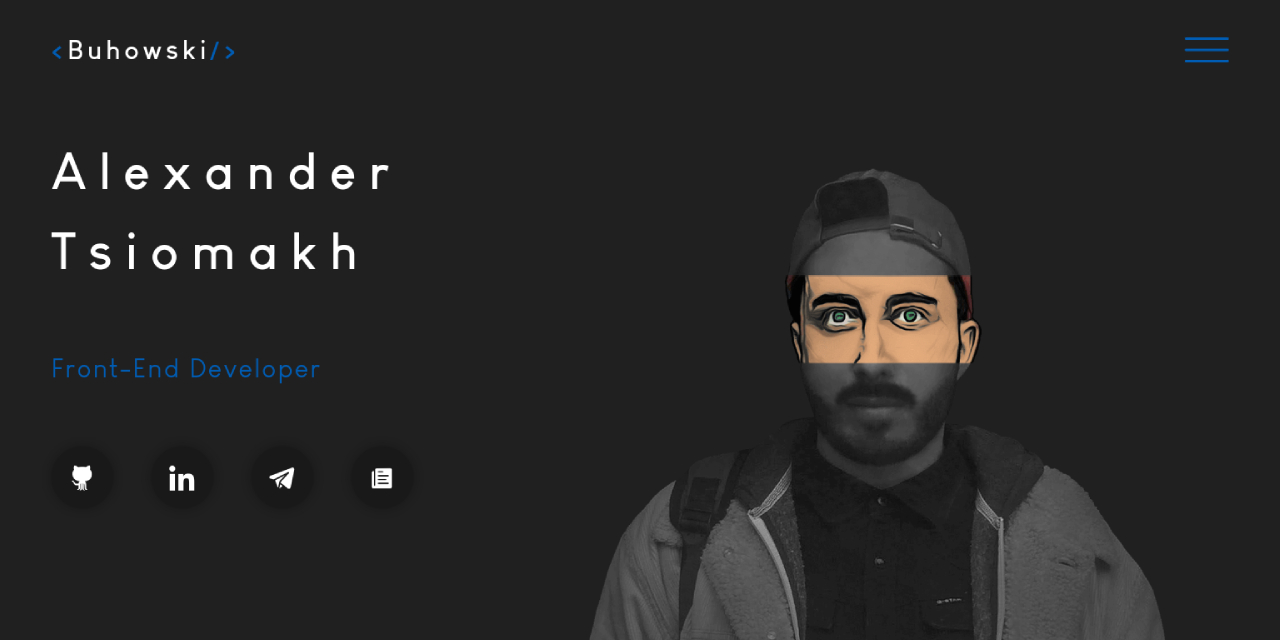
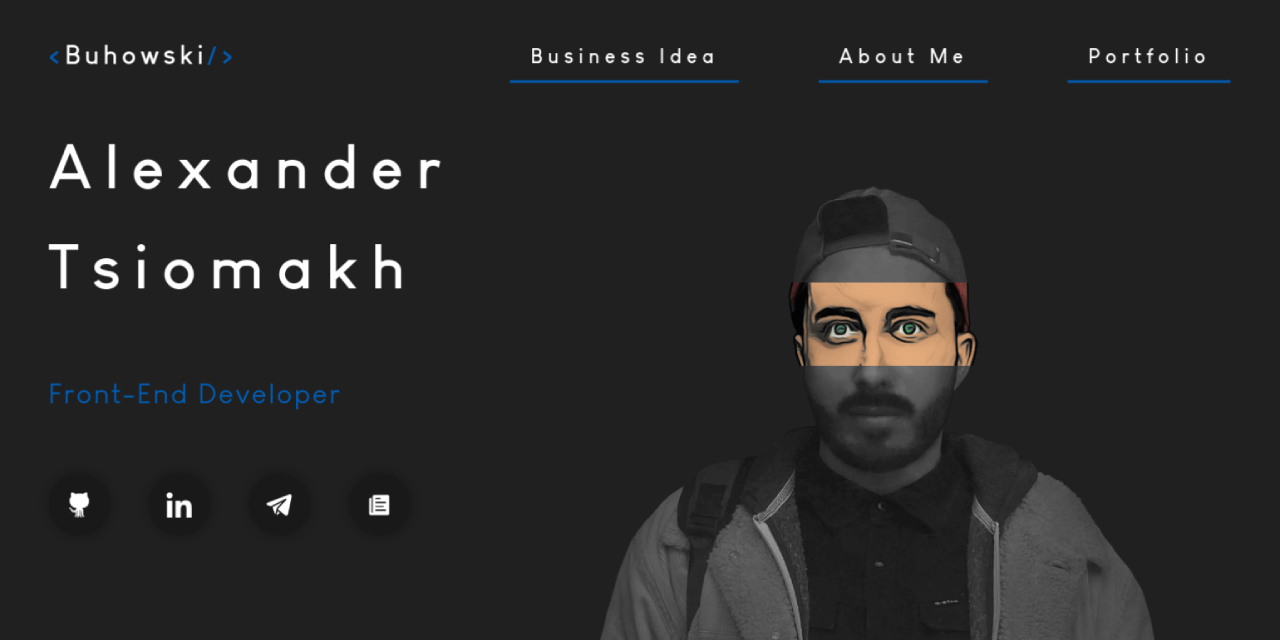
responsive design fixing

diff --git a/src/styles/_base.scss b/src/styles/_base.scss
@@ -74,10 +74,6 @@ img {
 	font-family: $lg-bold;
 	line-height: normal;
 
-	@media screen and (max-width: 1600px) {
-		font-size: calc(24px + 1.6vw);
-	}
-
 	@include tabletSmall {
 		font-size: calc(24px + 2.5vw);
 		padding-top: 1rem;

diff --git a/src/pages/home/Home.scss b/src/pages/home/Home.scss
@@ -32,12 +32,8 @@
 
 .name-container {
 	align-self: center;
-	margin-bottom: 100px;
+	margin-bottom: 80px;
 	width: 40%;
-
-	@include tablet {
-		margin-bottom: 80px;
-	}
 
 	@include tabletSmall {
 		width: 100%;
